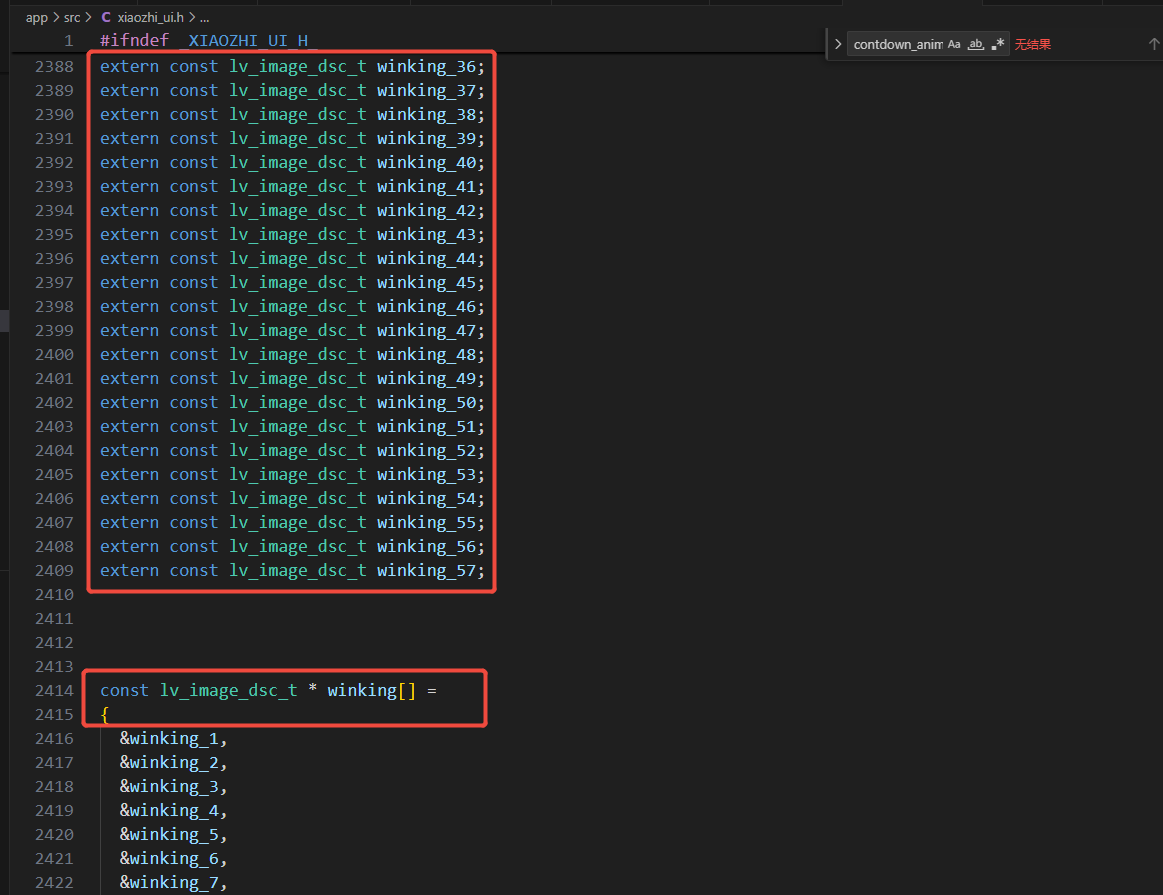
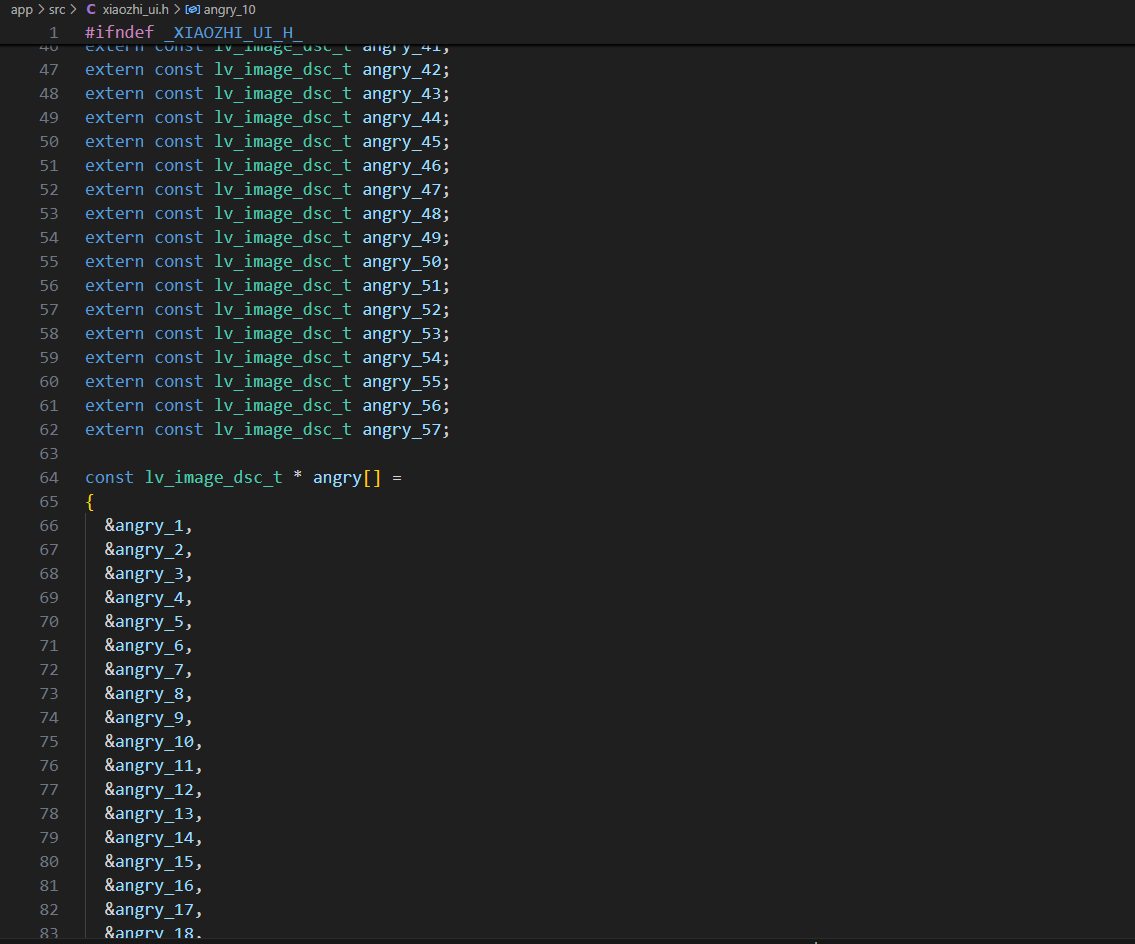
修改自定义动图教学文档

Changed region(s): [[0.0, 0.0, 0.4317, 1.0], [0.7093, 0.0302, 0.9251, 0.0603], [0.9868, 0.0302, 1.0, 0.0603]]

diff --git a/docs/src/custom/dynamic-image.md b/docs/src/custom/dynamic-image.md
@@ -3,37 +3,75 @@ title: 修改动态图片
 icon: image
 ---
 
-xiaozhi-sf32现已支持自定义动态图片，在`eZIP`的硬件加速解压缩引擎下，可以帮助我们快速地解压缩图片数据。并且压缩出来的图片都是无损的，这样就可以在不损失图片质量的前提下，节省存储空间，现默认图片组高达21组，可尽情自定义添加动态图片，由于直接使用gif会有背景色的干扰，本动态图片的实现的思路是运用序列帧的方式实现。
+xiaozhi-sf32现已支持自定义动态图片，在`eZIP`的硬件加速解压缩引擎下，可以帮助我们快速地解压缩图片数据。并且压缩出来的图片都是无损的，这样就可以在不损失图片质量的前提下，节省存储空间，可尽情自定义添加动态图片，由于直接使用gif会有背景色的干扰，本动态图片的实现的思路是运用序列帧的方式实现。
 
+## 素材预处理
 
-## 素材先处理
-
+### 准备要求
 
 1. 一组有顺序的`.png`图片组，分辨率为200x200像素
-2. 找到一个你想自定义播放的gif素材，通过在线工具`https://ezgif.com/optimize`将gif切割成一组png图片组，图片的命名顺序即是播放顺序，注意图片命名不可有空格。
-3. gif素材推荐60帧数，200-400kb左右，此参数下切割后的图片组大小适。
+2. 找到一个你想自定义播放的gif素材，通过在线工具`https://ezgif.com/optimize`将gif切割成一组png图片组，图片的命名顺序即是播放顺序，注意图片命名不可有空格
+3. gif素材推荐60帧数，200-400kb左右，此参数下切割后的图片组大小适中
+
+### 示例素材
 
 为了便于复现结果，我们提供了一个[示例素材](./image/angry.gif)。现在就让我们来尝试一步步操作。
 
-## 准备素材
-### 通过在线工具将gif素材优化成合适大小，然后再进一步将gif图切割成png素材
-### 在线工具的简单使用：
-#### 可选择优化删减帧数，对gif文件大小进行瘦身
+## 准备素材步骤
+
+### 1. 通过在线工具优化GIF
+
+使用在线工具将gif素材优化成合适大小，然后再进一步将gif图切割成png素材。
+
+#### 优化删减帧数
+
+可选择优化删减帧数，对gif文件大小进行瘦身：
+
 ![](image/ezip1.png)
-#### 优化后可查看优化后的gif文件数据，选择是否进一步优化
+
+#### 查看优化结果
+
+优化后可查看优化后的gif文件数据，选择是否进一步优化：
+
 ![](image/ezip2.png)
-#### 数据大小及帧率优化合适之后可以选择将gif分割成png图片组,以png格式输出
+
+#### 切割GIF为PNG序列
+
+数据大小及帧率优化合适之后可以选择将gif分割成png图片组，以png格式输出：
+
 ![](image/ezip3.png)
 ![](image/ezip4.png)
-#### 放置在一个文件夹内，图片命名顺序即播放顺序，推荐将新增自定义图片覆盖原始图片组，以防止额外的空间消耗
+
+### 2. 整理图片素材
+
+将切割后的PNG图片放置在一个文件夹内，图片命名顺序即播放顺序。推荐将新增自定义图片覆盖原始图片组，以防止额外的空间消耗：
+
 ![](image/ezip5.png)
 
-## 确保素材被使用
-### 新准备的素材可能帧数和原始素材帧数不一样，我们需要确认素材是否被使用：
-#### 素材的编译引用需要在app/asset/SConscript.py下确认，现内容是默认图片组的引用
+## 确保素材被正确使用
+
+新准备的素材可能帧数和原始素材帧数不一样，我们需要确认素材是否被正确使用。
+
+### 1. 确保图片资源文件夹被加入ezip编译
+
+素材的编译引用需要在`app/asset/SConscript.py`下确认，现内容是默认图片组的引用，可以根据自定义的文件夹加上一条：
+
 ![](image/ezip7.png)
-#### 另外需要在xiaozhi_ui.h中确认或添加外部变量的声明，并且将图片放置数组内
+
+### 2. 头文件中添加声明
+
+图片被ezip压缩之后成为数组变量，需要在`xiaozhi_ui.h`中确认或添加外部变量的声明，并且将图片放置数组内。每一张图片都是一个带有序号的变量名，然后我们按顺序放在一个数组内：
+
 ![](image/ezip8.png)
-* 注意编译后显示类似over+数字的报错表示asset整体素材已经超出空间大小。
-#### 最后我们可以看到效果。
+
+### 3. 在相关处理小智情绪的代码区应用
+
+![](image/ezip9.png)
+
+> 注意：编译后显示类似over+数字的报错表示asset整体素材已经超出空间大小。
+
+## 最终效果
+
+最后我们可以看到效果：
+
 ![](image/ezip6.png)
